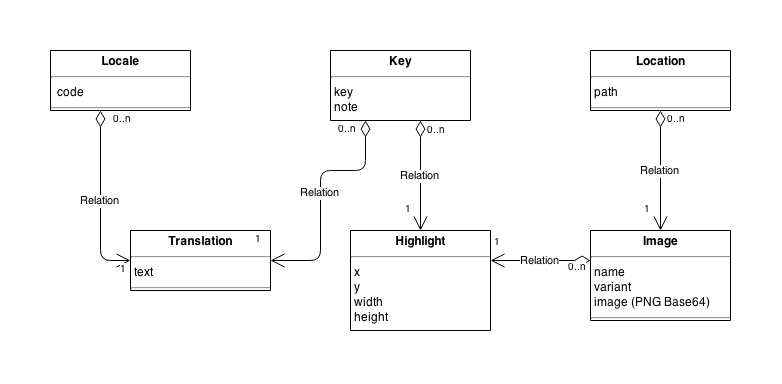
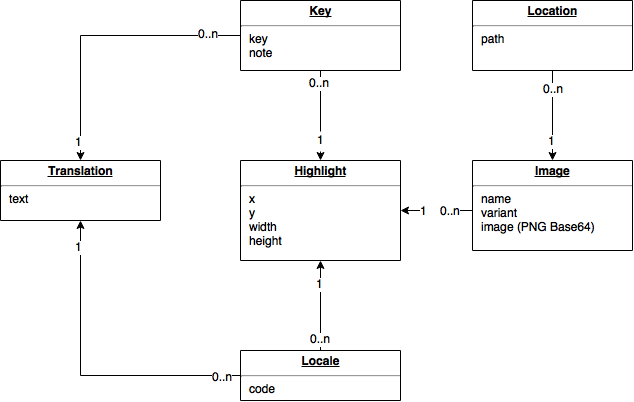
Highlights and images are now dependant on locale
Fixe issue with overwriting images on multiple 
screenshots with different translation keys.
Now it is saving all images from all requests 
and only changing highlights that were updated. 
Afterwards it cleanup all images which has no 
highlight assigned.

diff --git a/app/controllers/api/v1/images_controller.rb b/app/controllers/api/v1/images_controller.rb
@@ -13,26 +13,44 @@ module API
           variant = data[:variant]
           lookup_params = {
             location: location,
-            name: data[:name],
-            variant: data[:variant]
+            name:     data[:name],
+            variant:  data[:variant]
           }
-          if image = Image.where(lookup_params).first
-            image.update image_params(data)
-          else
-            args = image_params(data).merge(location: location)
-            image = Image.create args
-          end
+          args = image_params(data).merge(location: location)
+          Image.create args
         end
 
         params[:highlights].each do |data|
-          key   = Key.where(key: data[:key].split('.', 2).last).first_or_create
-          image = Image.where(name: data[:image_name], variant: variant).first
+          locale = Locale.where(code: parse_locale(data)).first_or_create
+          key    = Key.where(key: parse_key(data)).first_or_create
 
-          if highlight = Highlight.where(image: image, key: key).first
-            highlight.update highlight_params(data)
+          image_lookup = {
+            name:     data[:image_name],
+            variant:  variant,
+            location: location
+          }
+          image = Image.where(image_lookup).order(created_at: :desc).first
+
+          highlight_lookup = {
+            key:      key,
+            locale:   locale,
+            location: location
+          }
+
+          if highlight = Highlight.where(highlight_lookup).first
+            highlight.update highlight_params(data).merge(image: image)
           else
-            args = highlight_params(data).merge(image: image, key: key)
+            args = highlight_params(data)
+              .merge(highlight_lookup)
+              .merge(image: image)
+
             Highlight.create args
+          end
+
+          Image.where(image_lookup).each do |image|
+            if image.highlights.count == 0
+              image.delete
+            end
           end
         end
 
@@ -49,6 +67,14 @@ module API
 
       def highlight_params(data)
         data.slice(:x, :y, :width, :height).permit(:x, :y, :width, :height)
+      end
+
+      def parse_key(data)
+        data[:key].split('.', 2).last
+      end
+
+      def parse_locale(data)
+        data[:key].split('.', 2).first
       end
     end
   end

diff --git a/db/schema.rb b/db/schema.rb
@@ -11,7 +11,7 @@
 #
 # It's strongly recommended that you check this file into your version control system.
 
-ActiveRecord::Schema.define(version: 20150309091603) do
+ActiveRecord::Schema.define(version: 20150624151239) do
 
   # These are extensions that must be enabled in order to support this database
   enable_extension "plpgsql"
@@ -23,12 +23,16 @@ ActiveRecord::Schema.define(version: 20150309091603) do
     t.integer  "y"
     t.integer  "width"
     t.integer  "height"
-    t.datetime "created_at", null: false
-    t.datetime "updated_at", null: false
+    t.datetime "created_at",  null: false
+    t.datetime "updated_at",  null: false
+    t.integer  "locale_id"
+    t.integer  "location_id"
   end
 
   add_index "highlights", ["image_id"], name: "index_highlights_on_image_id", using: :btree
   add_index "highlights", ["key_id"], name: "index_highlights_on_key_id", using: :btree
+  add_index "highlights", ["locale_id"], name: "index_highlights_on_locale_id", using: :btree
+  add_index "highlights", ["location_id"], name: "index_highlights_on_location_id", using: :btree
 
   create_table "images", force: :cascade do |t|
     t.integer  "location_id"
@@ -75,8 +79,9 @@ ActiveRecord::Schema.define(version: 20150309091603) do
     t.integer  "key_id"
     t.integer  "locale_id"
     t.text     "text"
-    t.datetime "created_at", null: false
-    t.datetime "updated_at", null: false
+    t.datetime "created_at",                 null: false
+    t.datetime "updated_at",                 null: false
+    t.boolean  "edited",     default: false
   end
 
   add_index "translations", ["key_id"], name: "index_translations_on_key_id", using: :btree

diff --git a/app/controllers/api/v1/translations_controller.rb b/app/controllers/api/v1/translations_controller.rb
@@ -33,10 +33,15 @@ module API
               Translation.create translation_params(data).merge(locale: locale, key: key)
             end
 
-            if default_image
-              Highlight.where(image: default_image, key: key).first_or_create
-            end
             success += 1
+
+            if default_image
+              Highlight.where(
+                image:  default_image,
+                key:    key,
+                locale: locale
+              ).first_or_create
+            end
           else
             errors << { key: key.key, errors: key.errors.full_messages }
           end

diff --git a/db/migrate/20150624151239_add_locale_to_highlights_and_images.rb b/db/migrate/20150624151239_add_locale_to_highlights_and_images.rb
@@ -1,0 +1,8 @@
+class AddLocaleToHighlightsAndImages < ActiveRecord::Migration
+  def change
+    change_table :highlights do |t|
+      t.belongs_to :locale,   index: true
+      t.belongs_to :location, index: true
+    end
+  end
+end

diff --git a/spec/models/highlight_spec.rb b/spec/models/highlight_spec.rb
@@ -3,5 +3,7 @@ require 'rails_helper'
 RSpec.describe Highlight, type: :model do
   it { should belong_to :image }
   it { should belong_to :key }
+  it { should belong_to :locale }
+  it { should belong_to :location }
 
 end

diff --git a/app/models/location.rb b/app/models/location.rb
@@ -2,6 +2,8 @@ class Location < ActiveRecord::Base
   include Resolvable
 
   has_many :images
+  has_many :highlights
+
   validates :path, uniqueness: true, presence: true
 
   scope :alphabetical,  -> { order :path }

diff --git a/app/models/highlight.rb b/app/models/highlight.rb
@@ -3,6 +3,8 @@ class Highlight < ActiveRecord::Base
 
   belongs_to :image
   belongs_to :key
+  belongs_to :locale
+  belongs_to :location
 
   validates :key, :image, presence: true
 

diff --git a/app/models/locale.rb b/app/models/locale.rb
@@ -3,6 +3,7 @@ class Locale < ActiveRecord::Base
 
   has_many :translations
   has_many :releases
+  has_many :highlights
 
   scope :alphabetical,  -> { order :code }
 
